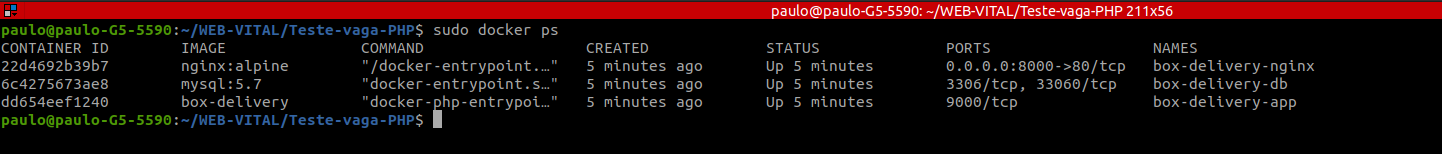
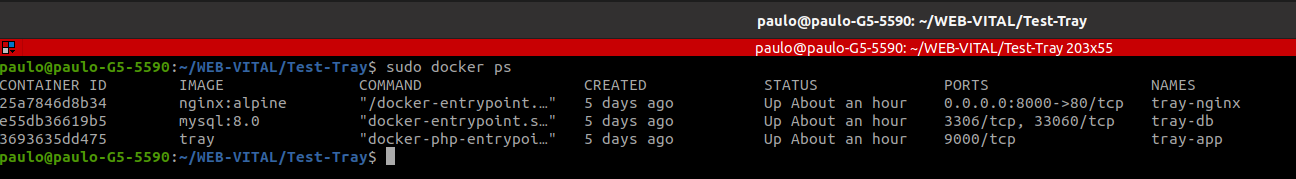
[Test-Tray] Ajustes / Tutorial

diff --git a/app/Http/Controllers/Api/VendaApiController.php b/app/Http/Controllers/Api/VendaApiController.php
@@ -52,8 +52,6 @@ class VendaApiController extends Controller
            $arrayAcresComissao[$key]['preco_produto'] = $dataProduto[0]['preco'];
 
            $total = $val['total_venda'];
-           
-           $valorTotal = $valorTotal + $total;
 
            $arrayAcresComissao[$key]['total_venda'] = number_format($val['total_venda'], 2, ',', '.');
            $totalComissionado = $total + ($total / 100 * $arrayAcresComissao[$key]['comissao']);           

diff --git a/README.md b/README.md
@@ -1,1 +1,111 @@
-# Test-Tray
+# Teste-Tray
+
+# Realizado em um sistema Linux
+
+---
+## Subindo o Docker para rodar o app
+1. **sudo docker-compose build app**
+2. **sudo docker-compose up -d**
+3. ![Título da imagem](public/img/rodar-docker2.png)
+
+---
+## Instalar as dependências do composer
+4. **sudo docker-compose exec app composer install**
+---
+
+## Caso gere um erro
+4.1. **docker-compose exec app composer update**
+
+---
+
+## crie uma chave para o artisan
+5. **sudo docker-compose exec app php artisan key:generate**
+
+---
+
+## Verifique o host do mysql que o Docker gerou
+
+Comando no terminal:
+
+6.0. **sudo docker ps**
+
+![Título da imagem](public/img/docker-ps.png)
+
+
+6.1. **sudo docker inspect _id do mysql_**
+
+![Título da imagem](public/img/docker-inspect.png)
+
+6.3. Copie o numero do IPAddress 
+* Ex:  _172.29.0.4_
+---
+
+## Edit o host do mysql
+7. **Abra o arquivo database.php linha 49 e coloque o host que o docker gerou**
+
+![Título da imagem](public/img/database.png)
+
+---
+
+8. Acesse o **_http://localhost:8000/_**
+
+---
+
+9. Crie seu usuario e realize o login 
+![Título da imagem](public/img/login.png)
+
+---
+
+10. Na home verá os seguintes módulos:
+![Título da imagem](public/img/tela-principa.png)
+
+---
+
+ATENÇÃO ANTES DE REALIZAR ALGUMA VENDA !!
+
+Cadastre os vendedores e Produtos.
+
+![Título da imagem](public/img/ControleProdutosVendedores.png)
+![Título da imagem](public/img/Produto.png)
+![Título da imagem](public/img/vendedores.png)
+
+---
+
+11. No Realizar Venda a seguinte tela:
+![Título da imagem](public/img/TelaVenda.png)
+
+---
+
+12. Crie um relatório para uma melhor vizualização das vendas realizadas pelos vendedores
+![Título da imagem](public/img/RelatorioVendas.png)
+
+---
+
+13. A Cron vou realizada para ser executada todos os dias
+![Título da imagem](public/img/cronDiaria.png)
+
+Comando para executar a cron:  **php artisan sendEmail:cron**
+
+---
+
+14. Criei um E-mail para receber os e-mails de relatório: 
+
+No Gmail: 
+login **pauloavitaltray@gmail.com**
+senha **Admin2020** 
+
+---
+
+Devido a ter que configurar o .env com os dados do e-mail para receber o relatorio conforme imagens abaixo:
+
+Essa imagem abaixo é apenas para ilustrar que precisou liberar a verificação de segurança do gmail
+![Título da imagem](public/img/GmailPermitirAppMenosSeguros.png)
+
+Conforme solicitado o e-mail enviado pelo **cronSendEmail**
+![Título da imagem](public/img/Email_Enviado.png)
+
+
+---
+
+Teste-Tray: Relizado por **Paulo Antonio Vital**
+
